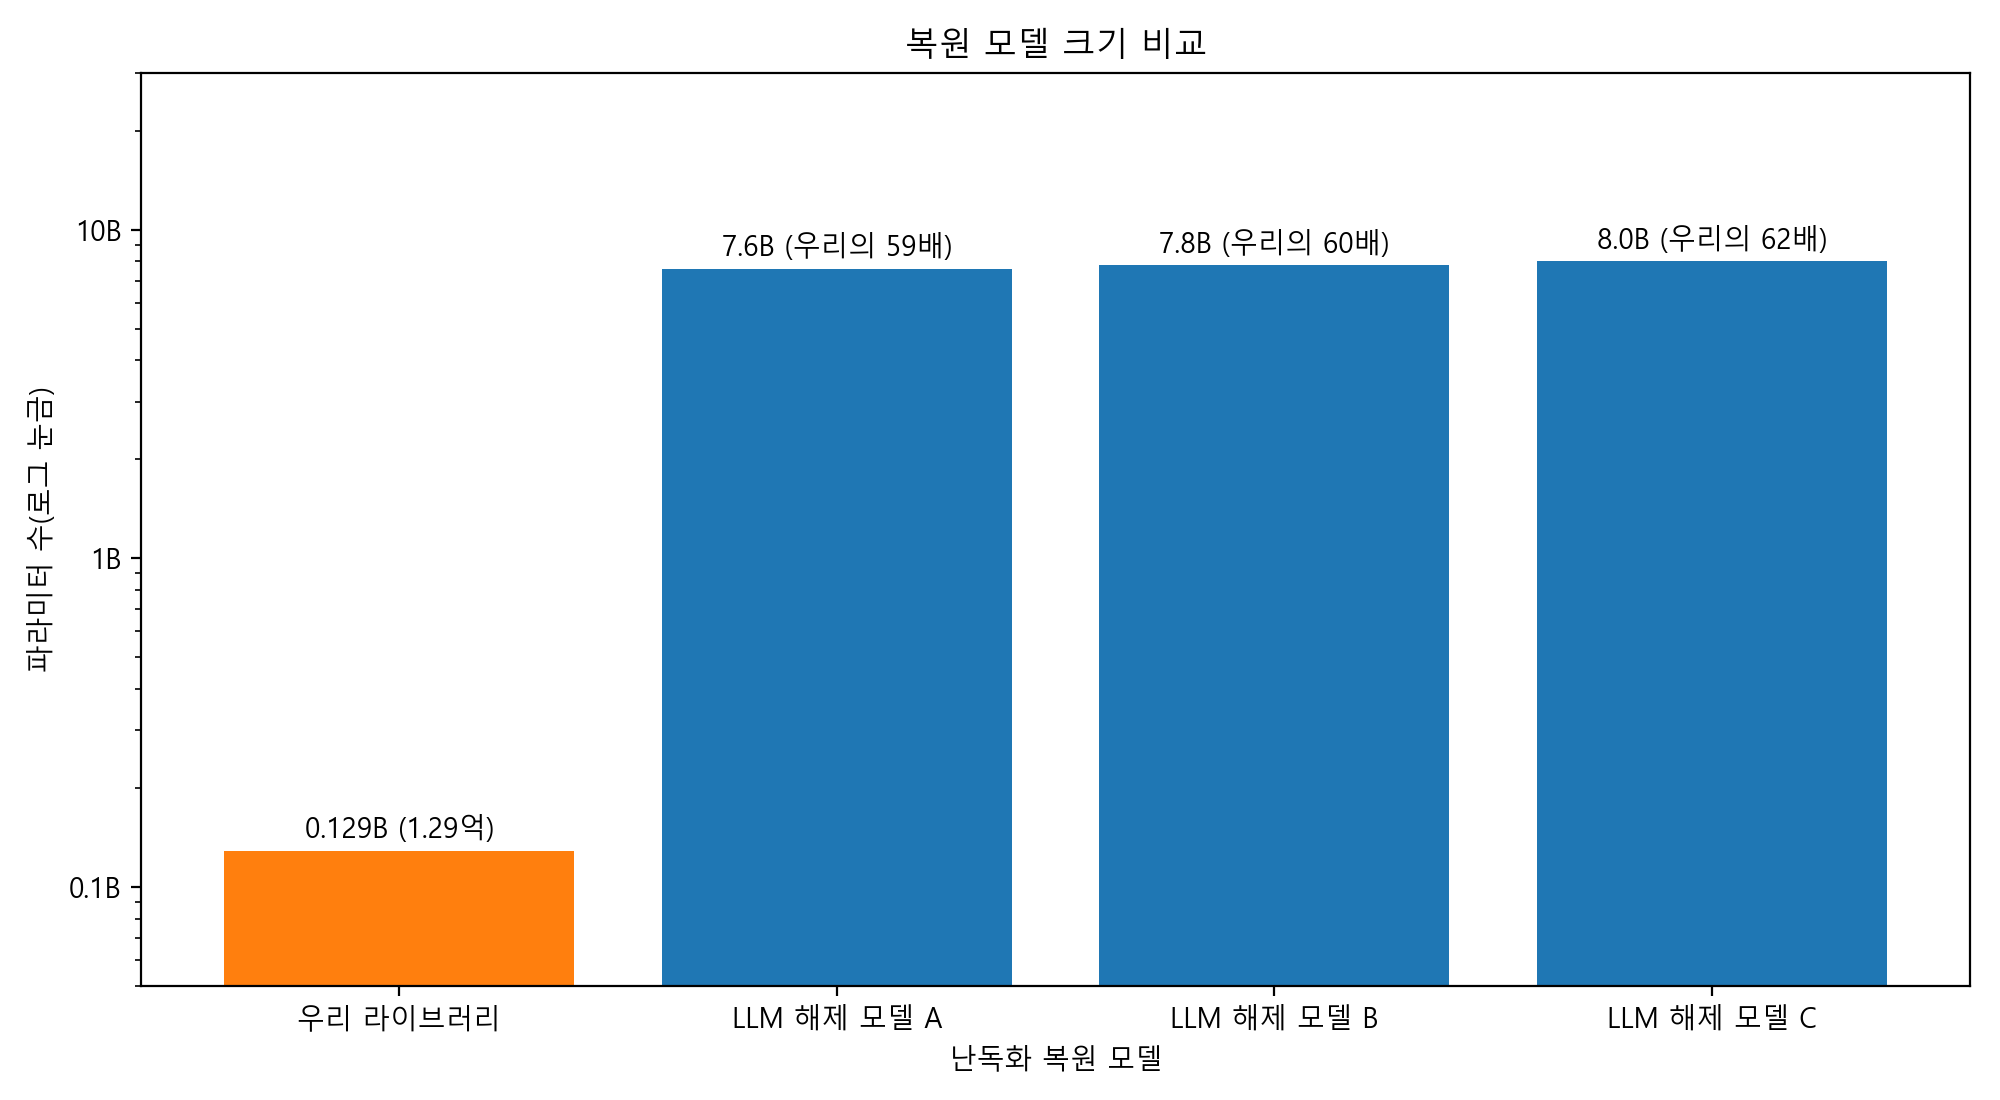
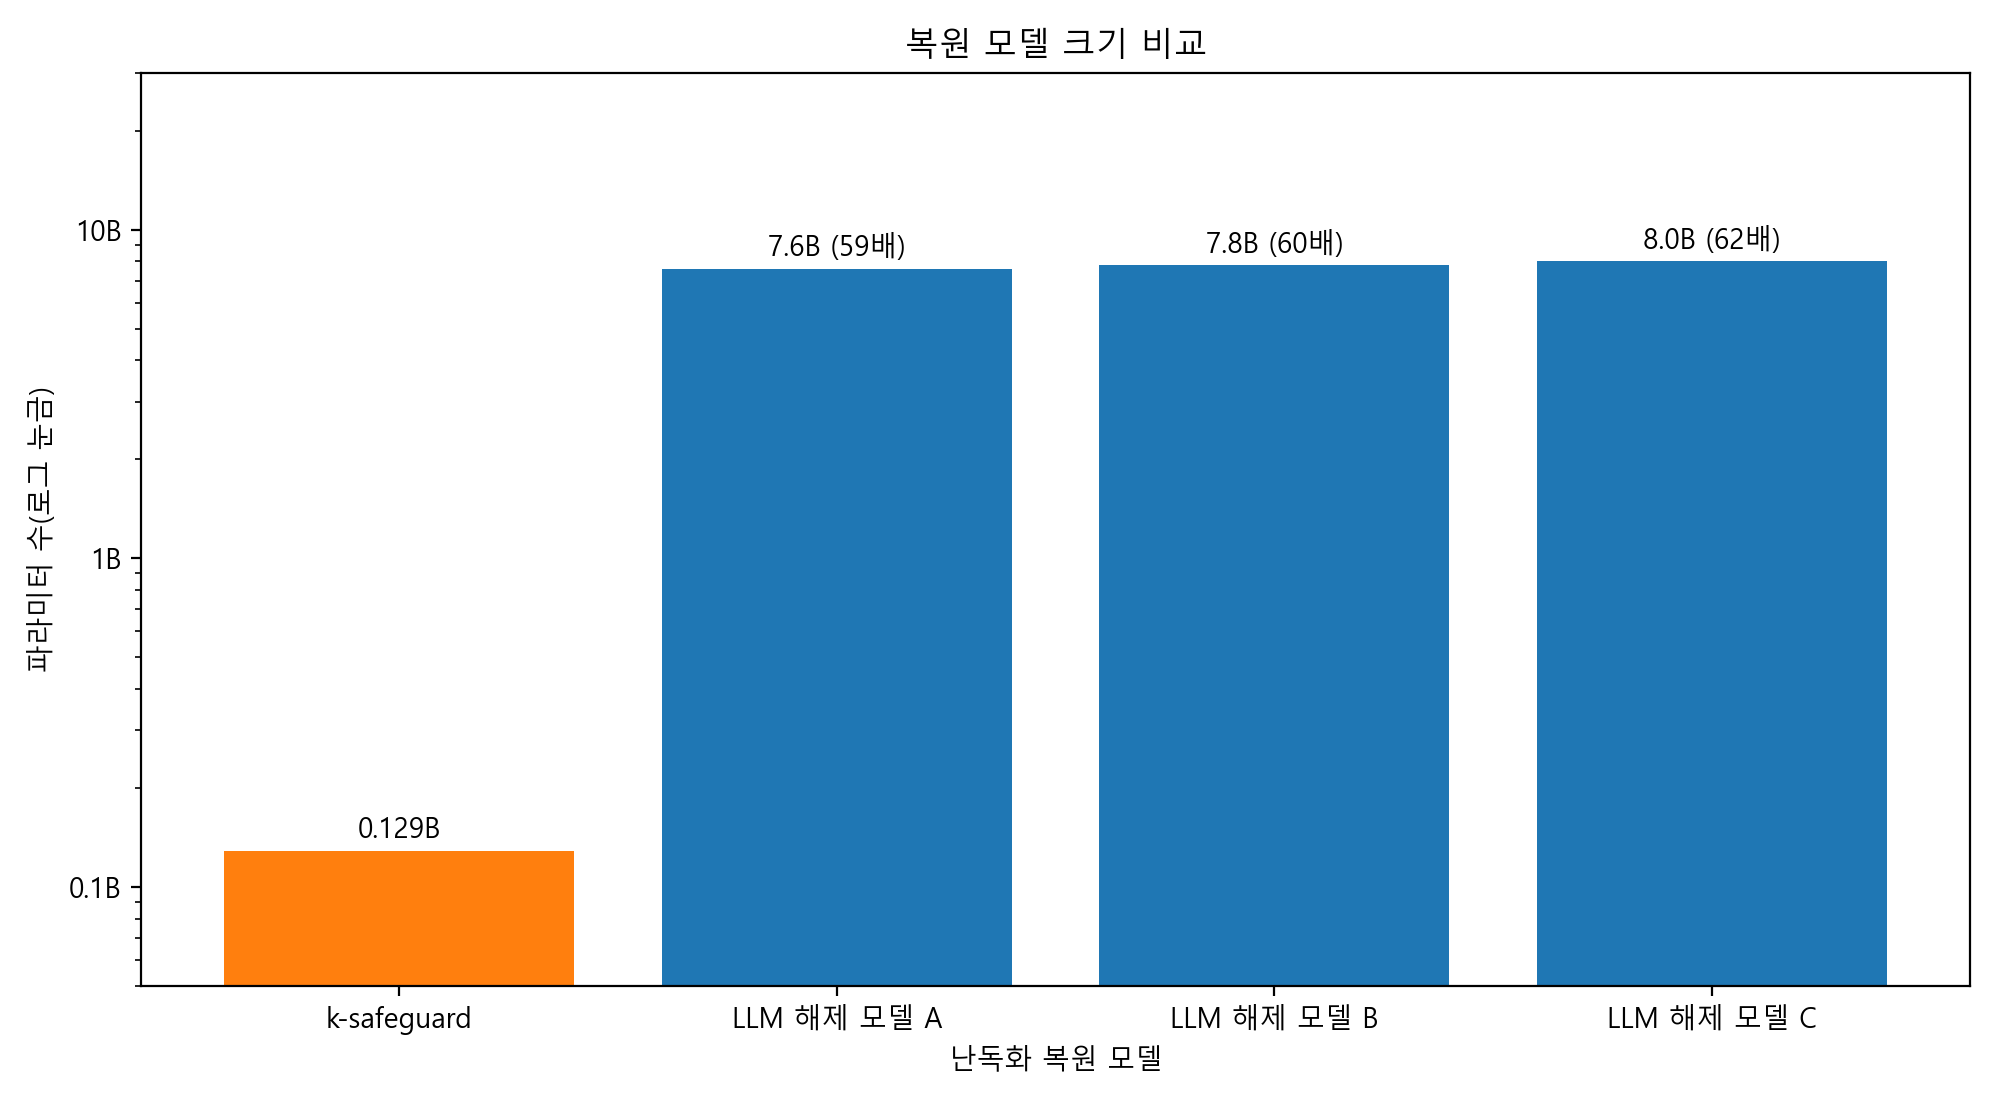
docs(guardrail): P05 슬라이드 3 제목 단순화, 슬라이드 4 표기를 k-safeguard와 배수로

diff --git a/guardrail/exp/p05_profanity/make_slides.py b/guardrail/exp/p05_profanity/make_slides.py
@@ -112,17 +112,17 @@ def slide3() -> dict:
     order = sorted(d, key=lambda k: -(d[k][1] - d[k][0]))
     top = order[:6]
     grouped([NAME[k] for k in top], [d[k][0] for k in top], [d[k][1] for k in top],
-            "난독화 유형별 감지율 (kor_unsmile, 단일 기법, 향상폭 상위 6유형)", "난독화 유형", "slide_3_by_type.png")
+            "난독화 유형별 감지율", "난독화 유형", "slide_3_by_type.png")
     return {k: d[k] for k in order}
 
 
 def slide4() -> list:
     """크기 차이가 약 60배라 같은 눈금이면 우리 막대가 안 보인다. 로그 축에 배수를 함께 적는다."""
-    models = [("우리 라이브러리", 0.129), ("LLM 해제 모델 A", 7.6), ("LLM 해제 모델 B", 7.8), ("LLM 해제 모델 C", 8.0)]
+    models = [("k-safeguard", 0.129), ("LLM 해제 모델 A", 7.6), ("LLM 해제 모델 B", 7.8), ("LLM 해제 모델 C", 8.0)]
     ours = models[0][1]
     fig, ax = plt.subplots(figsize=FIGSIZE)
     bars = ax.bar([m[0] for m in models], [m[1] for m in models], color=["C1", "C0", "C0", "C0"])
-    labels = ["0.129B (1.29억)"] + [f"{v:.1f}B (우리의 {v / ours:.0f}배)" for _, v in models[1:]]
+    labels = ["0.129B"] + [f"{v:.1f}B ({v / ours:.0f}배)" for _, v in models[1:]]
     ax.bar_label(bars, labels=labels, padding=2)
     ax.set_yscale("log")
     ax.set_ylim(0.05, 30)
@@ -174,7 +174,7 @@ def text(v1, v2, v3) -> str:
 ## 슬라이드 3 — `slide_3_by_type.png`
 
 - 제목: **가장 크게 되찾는 난독화 유형**
-- 한 줄 설명: kor_unsmile, 난독화 유형별 감지율(단일 기법, 향상폭 상위 6유형)
+- 한 줄 설명(그림 제목에서 뺀 조건): kor_unsmile 필터, 단일 기법 데이터, 향상폭 상위 6유형
 - 말할 거리: 자모 분해(ㅅ ㅣ ㅂ ㅏ ㄹ 식) {t[0][1][0]:.0f}% → {t[0][1][1]:.0f}%, 받침·반모음 추가 {t[1][1][0]:.0f}% → {t[1][1][1]:.0f}%
 - 각주: 나머지 유형은 {rest}. 초성체는 현재 복원 범위 밖, 닮은 외국문자·야민정음·음절 늘이기는 경계(복원 여부 미정)
 
@@ -182,7 +182,7 @@ def text(v1, v2, v3) -> str:
 
 - 제목: **LLM 기반 해제 모델의 약 1/60 크기**
 - 한 줄 설명: 난독화 복원 모델의 파라미터 수(세로축은 10배 단위 로그 눈금)
-- 말할 거리: 우리 라이브러리 1.29억 개, LLM 해제 모델 76억~80억 개. 문장 하나 처리 시간 GPU 약 7ms(p50)
+- 말할 거리: k-safeguard 1.29억 개, LLM 해제 모델 76억~80억 개(k-safeguard의 59~62배). 문장 하나 처리 시간 GPU 약 7ms(p50)
 - 각주: LLM 해제 모델 A·B·C는 KOTOX 연구(arXiv 2510.10961)가 공개한 Qwen2.5-7B·EXAONE-3.5-7.8B·Bllossom-8B 기반 모델. 크기만 비교했고 속도·정확도는 같은 조건에서 재지 않았다
 """
 

diff --git a/guardrail/reports/figures/p05/slides_text.md b/guardrail/reports/figures/p05/slides_text.md
@@ -30,7 +30,7 @@
 ## 슬라이드 3 — `slide_3_by_type.png`
 
 - 제목: **가장 크게 되찾는 난독화 유형**
-- 한 줄 설명: kor_unsmile, 난독화 유형별 감지율(단일 기법, 향상폭 상위 6유형)
+- 한 줄 설명(그림 제목에서 뺀 조건): kor_unsmile 필터, 단일 기법 데이터, 향상폭 상위 6유형
 - 말할 거리: 자모 분해(ㅅ ㅣ ㅂ ㅏ ㄹ 식) 65% → 85%, 받침·반모음 추가 54% → 69%
 - 각주: 나머지 유형은 닮은 외국문자 +6.9%p, 초성체 +6.2%p, 연음 +5.8%p, 소리 나는 대로 +4.1%p, 받침 교체 +3.4%p, 음절 늘이기 +2.2%p, 야민정음 +1.6%p. 초성체는 현재 복원 범위 밖, 닮은 외국문자·야민정음·음절 늘이기는 경계(복원 여부 미정)
 
@@ -38,5 +38,5 @@
 
 - 제목: **LLM 기반 해제 모델의 약 1/60 크기**
 - 한 줄 설명: 난독화 복원 모델의 파라미터 수(세로축은 10배 단위 로그 눈금)
-- 말할 거리: 우리 라이브러리 1.29억 개, LLM 해제 모델 76억~80억 개. 문장 하나 처리 시간 GPU 약 7ms(p50)
+- 말할 거리: k-safeguard 1.29억 개, LLM 해제 모델 76억~80억 개(k-safeguard의 59~62배). 문장 하나 처리 시간 GPU 약 7ms(p50)
 - 각주: LLM 해제 모델 A·B·C는 KOTOX 연구(arXiv 2510.10961)가 공개한 Qwen2.5-7B·EXAONE-3.5-7.8B·Bllossom-8B 기반 모델. 크기만 비교했고 속도·정확도는 같은 조건에서 재지 않았다
